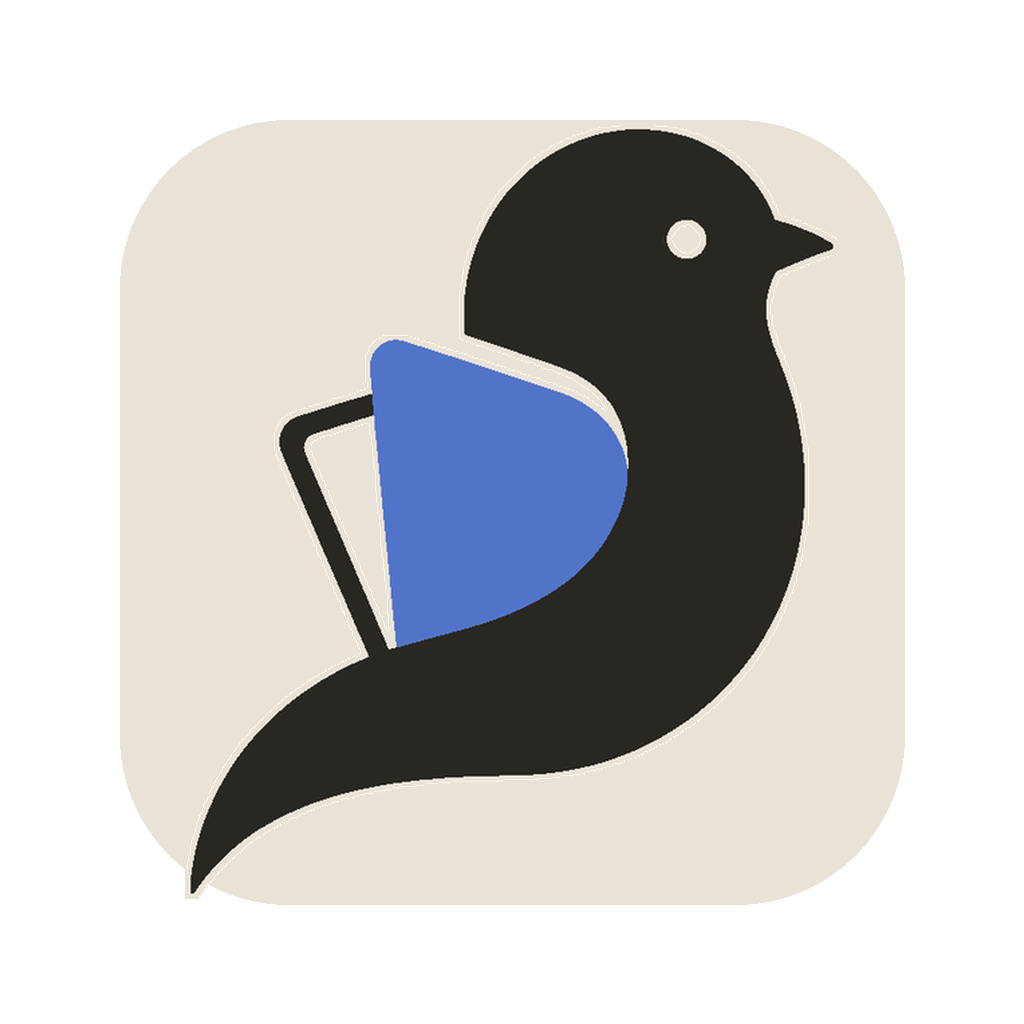
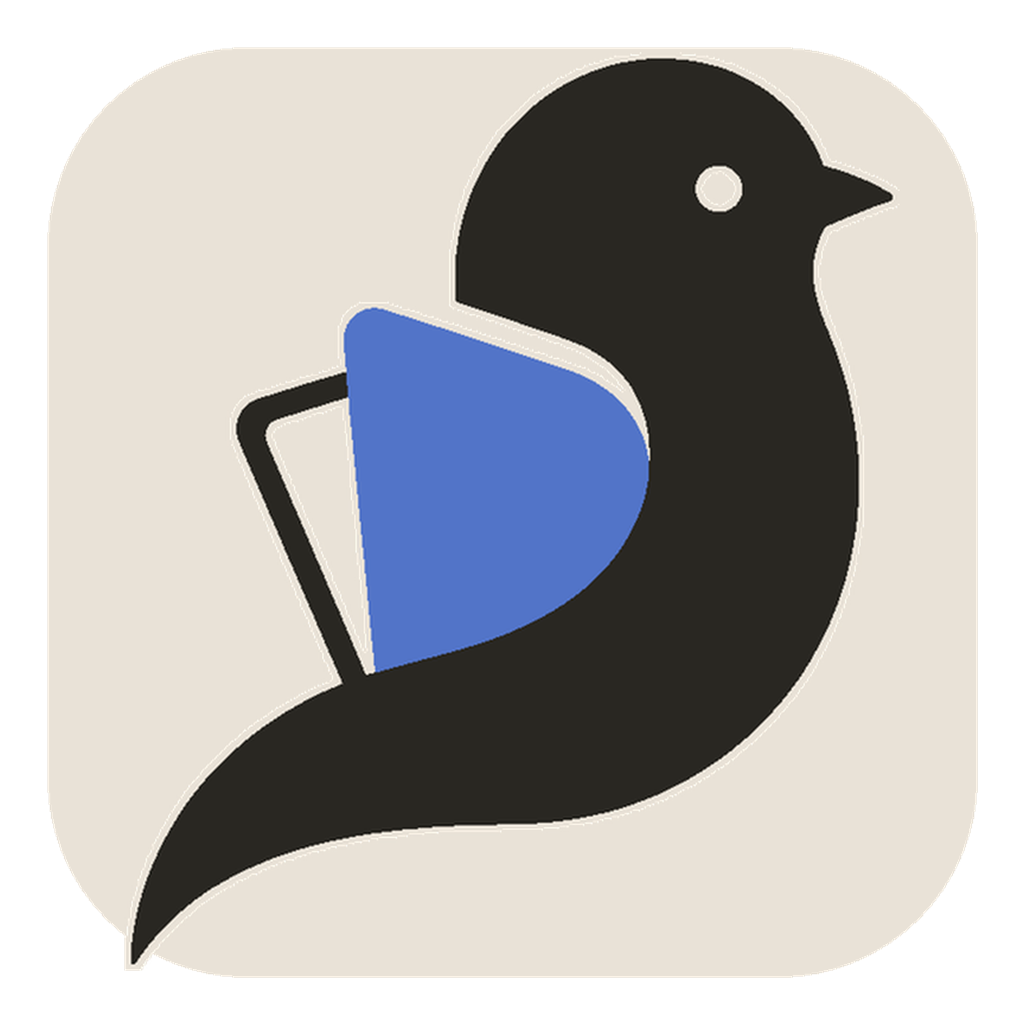
팝업 종료 포커스와 앱 아이콘 크기 개선

diff --git a/src/Sentory.App/OwnedPopupDismissBehavior.cs b/src/Sentory.App/OwnedPopupDismissBehavior.cs
@@ -62,7 +62,20 @@ internal static class OwnedPopupDismissBehavior
         }
 
         window.Loaded += (_, _) => AttachOwnerHandler();
-        window.Closing += (_, _) => closeRequested = true;
+        window.Closing += (_, _) =>
+        {
+            closeRequested = true;
+            if (owner is
+                {
+                    IsLoaded: true,
+                    IsVisible: true,
+                    IsActive: false,
+                    WindowState: not WindowState.Minimized
+                })
+            {
+                owner.Activate();
+            }
+        };
         window.Closed += (_, _) => DetachOwnerHandler();
         if (window.IsLoaded)
         {

diff --git a/src/Sentory.App/GalleryWindow.xaml.cs b/src/Sentory.App/GalleryWindow.xaml.cs
@@ -2466,14 +2466,21 @@ public partial class GalleryWindow : Window
             return;
         }
 
-        ShowInTaskbar = true;
+        if (!ShowInTaskbar)
+        {
+            ShowInTaskbar = true;
+        }
+
         if (WindowState == WindowState.Minimized)
         {
             WindowState = WindowState.Normal;
         }
 
-        Show();
-        Activate();
+        if (!IsVisible)
+        {
+            Show();
+            Activate();
+        }
     }
 
     private enum GalleryFilter
